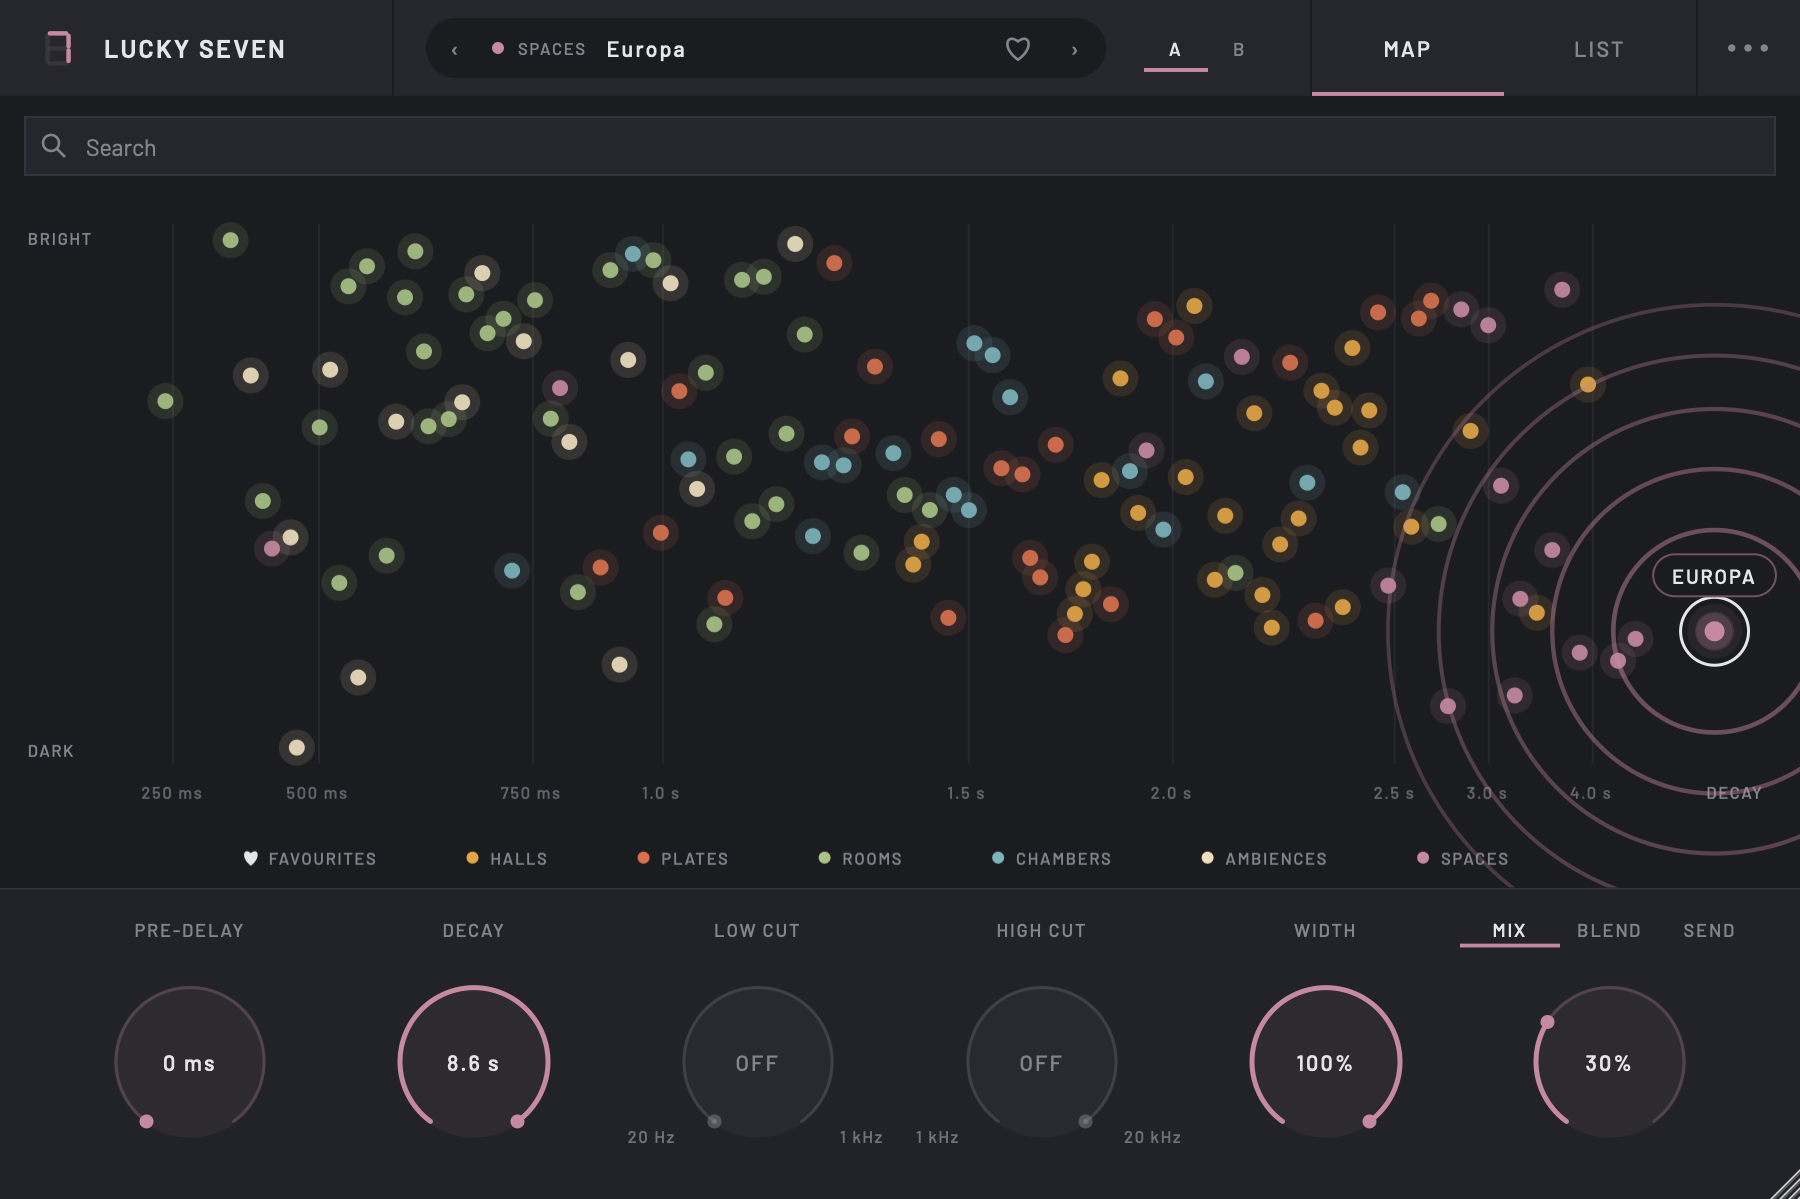
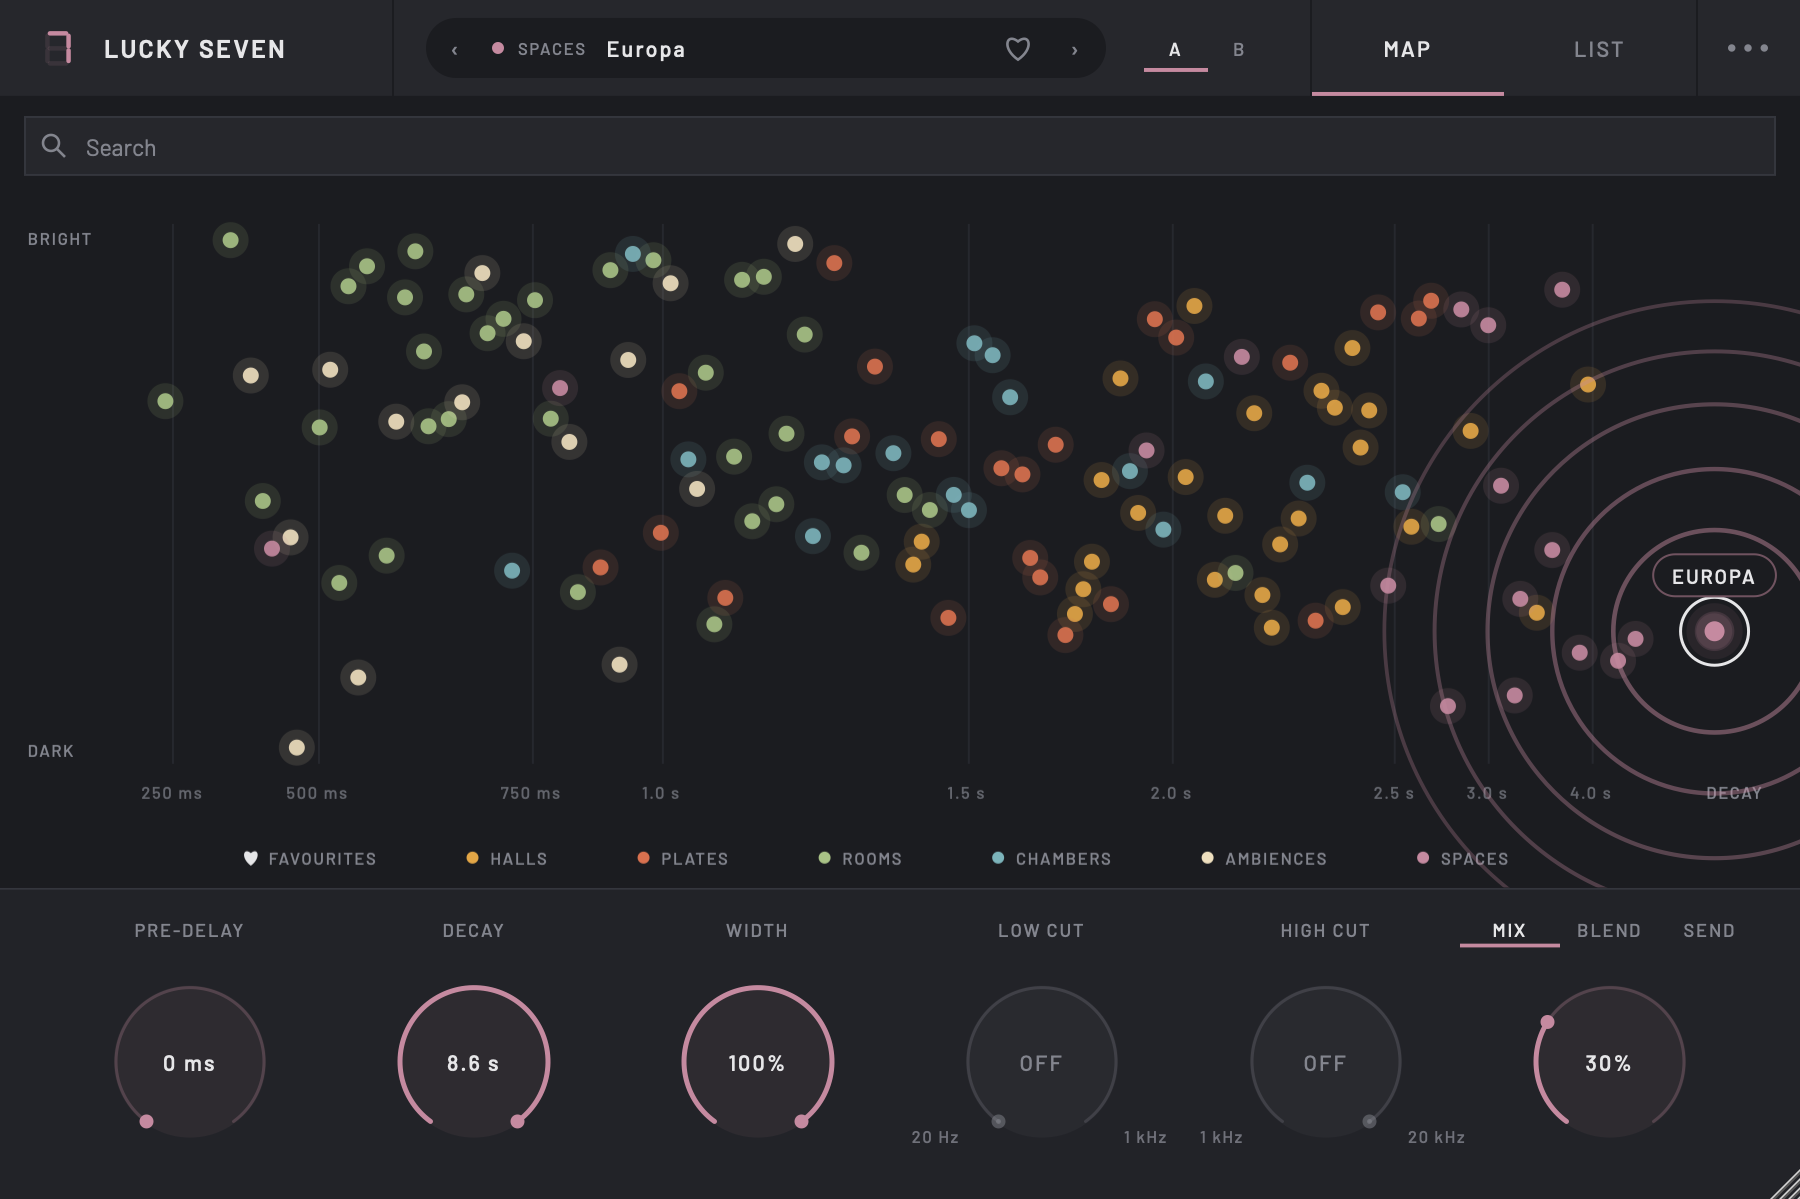
docs(site): re-render screenshots with the new knob order

diff --git a/docs/index.html b/docs/index.html
@@ -169,7 +169,7 @@
     </div>
 
     <figure class="shot">
-      <img src="assets/map.png" width="1800" height="1200" alt="Lucky Seven's sound map: 134 coloured dots plotted by decay time and brightness with the Large &amp; Near hall selected, and the pre-delay, decay, low cut, high cut, width and mix knobs below.">
+      <img src="assets/map.png" width="1800" height="1200" alt="Lucky Seven's sound map: 134 coloured dots plotted by decay time and brightness with the Large &amp; Near hall selected, and the pre-delay, decay, width, low cut, high cut and mix knobs below.">
       <figcaption>The sound map. Each dot sits by how long its tail lasts (left to right) and how bright it sounds (bottom to top).</figcaption>
     </figure>
   </div>
